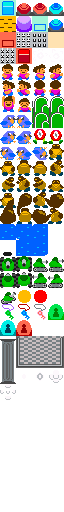
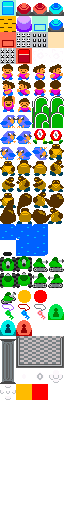
Endgame

Changed region(s): [[0.25, 0.75, 0.75, 0.7812]]

diff --git a/src/main.js b/src/main.js
@@ -131,6 +131,9 @@ Gameplay.prototype.create = function() {
     } else if (envObject.name === 'key') {
       var newKey = this.game.add.existing(new Key(this.game, envObject.x, envObject.y, envObject.properties.color));
       this.keys.push(newKey);
+    } else if (envObject.name === 'win') {
+      var newGoal = this.game.add.existing(new WinObject(this.game, envObject.x, envObject.y));
+      this.goal = newGoal;
     }
   }, this);
   
@@ -169,6 +172,23 @@ Gameplay.prototype.update = function() {
       lock.kill();
     }
   }, this);
+
+  // win game logic
+  this.game.physics.arcade.overlap(this.player, this.goal, function (player, goal) {
+    goal.kill();
+
+    var claimIcon = this.game.add.sprite(this.player.x, this.player.y - 24, 'blocks', 0);
+    claimIcon.animations.add('flicker', [97, 98], 10, true);
+    claimIcon.animations.play('flicker');
+    claimIcon.anchor.set(0.5);
+
+    this.player.disableMovement = true;
+    this.player.viewSprite.animations.play('weak_pose');
+
+    this.game.time.events.add(3000, function () {
+      this.game.state.start('TitleScreen');
+    }, this);
+  }, undefined, this);
 
   // get key logic
   this.game.physics.arcade.overlap(this.player, this.keys, function (player, key) {

diff --git a/src/items.js b/src/items.js
@@ -10,6 +10,18 @@ var Key = function(game, x, y, color) {
 Key.prototype = Object.create(Phaser.Sprite.prototype);
 Key.prototype.constructor = Key;
 
+var WinObject = function(game, x, y) {
+  Phaser.Sprite.call(this, game, x + 8, y + 8, 'blocks', 10);
+  this.game.physics.arcade.enable(this);
+  this.body.setSize(16, 16);
+  this.anchor.set(0.5);
+
+  this.animations.add('flicker', [97, 98], 10, true);
+  this.animations.play('flicker');
+};
+WinObject.prototype = Object.create(Phaser.Sprite.prototype);
+WinObject.prototype.constructor = WinObject;
+
 var Lock = function(game, x, y, color) {
   Phaser.Sprite.call(this, game, x + 8, y + 8, 'blocks', 10);
   this.game.physics.arcade.enable(this);
